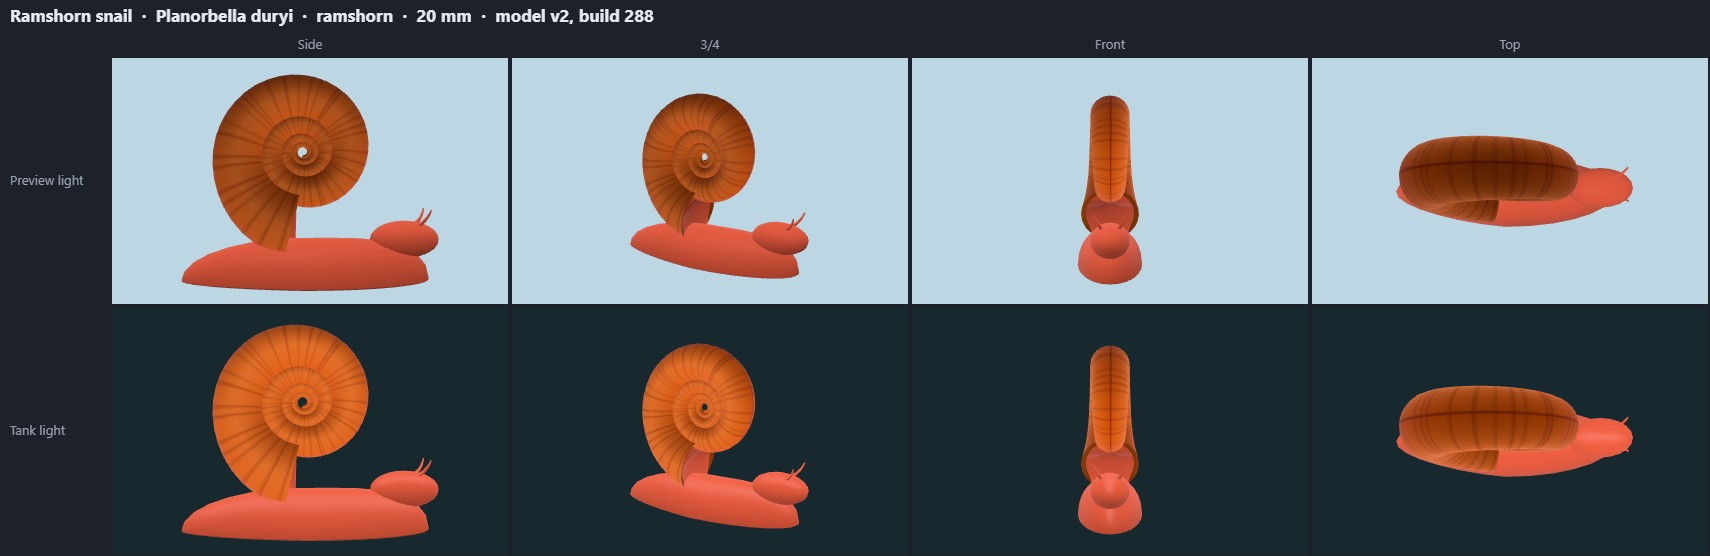
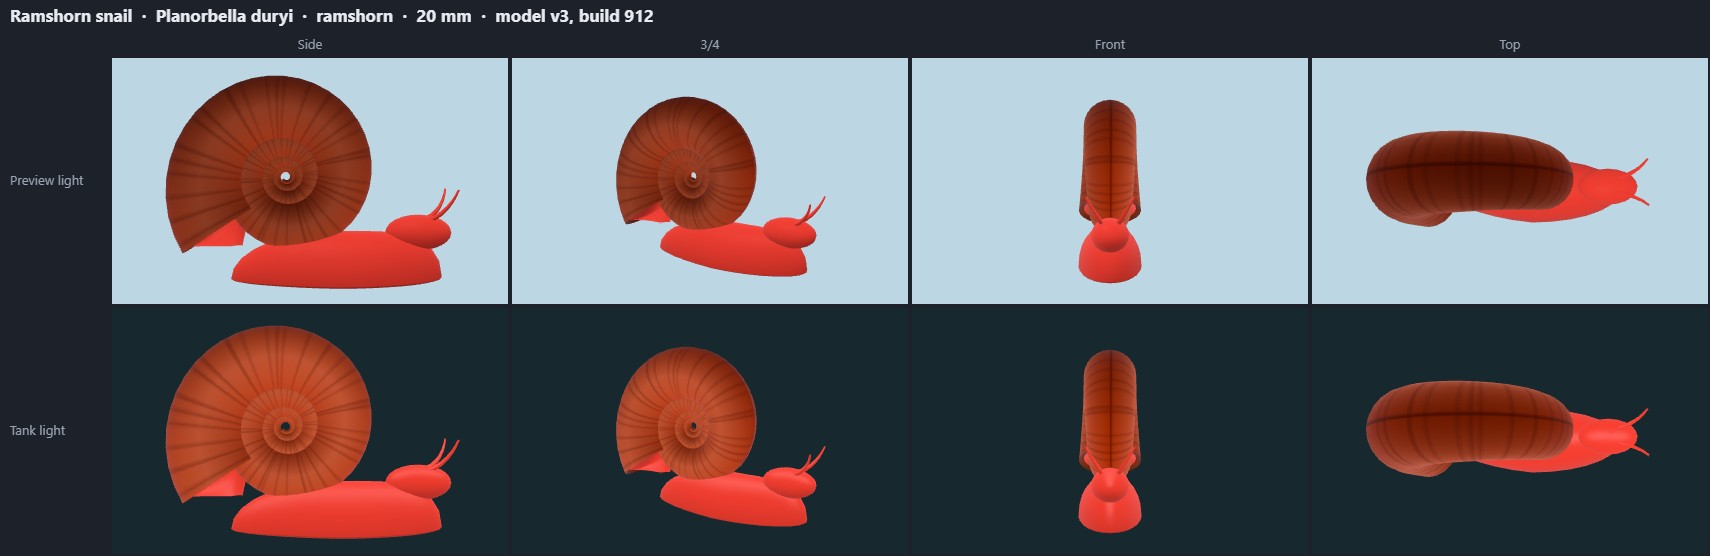
Ramshorn snail: round slow-widening whorls on a short plump foot, darker shell over a red body (was a horn on a plank)

diff --git a/public/model-sheets/index.html b/public/model-sheets/index.html
@@ -10,7 +10,7 @@ figure { margin: 8px 0 14px; padding: 8px; background: var(--panel); border-radi
 img { display: block; max-width: 100%; height: auto }
 </style></head><body>
 <h1>Model sheets</h1>
-<p>Pre-rendered review images of every TankLook animal model (no WebGL needed): 129 models, 84 species, written at build 793.
+<p>Pre-rendered review images of every TankLook animal model (no WebGL needed): 129 models, 84 species, written at build 912.
 Each sheet shows the Side, 3/4, Front, Top views; top row in the plain preview light, bottom row at true size in the default tank's LED light and water.
 Click a sheet for the full-size image (1710 × 556 px). Interactive version: <a href="../review.html">review.html</a>.</p>
 <h2>Freshwater fish</h2>
@@ -87,7 +87,7 @@ Click a sheet for the full-size image (1710 × 556 px). Interactive version: <a 
 <figure id="amano"><figcaption><b>Amano shrimp</b> · <i>Caridina multidentata</i> · amano · 45 mm · model v4 (build 448, 2026-10-15)</figcaption><a href="amano.jpg"><img src="amano.jpg" width="1710" height="556" loading="lazy" alt="Amano shrimp (Caridina multidentata), model v4: Side, 3/4, Front, Top views, preview light (top row) and tank light (bottom row)"></a></figure>
 <figure id="nerite"><figcaption><b>Nerite snail (zebra)</b> · <i>Neritina natalensis</i> · nerite · 25 mm · model v3 (build 317, 2026-10-14)</figcaption><a href="nerite.jpg"><img src="nerite.jpg" width="1710" height="556" loading="lazy" alt="Nerite snail (zebra) (Neritina natalensis), model v3: Side, 3/4, Front, Top views, preview light (top row) and tank light (bottom row)"></a></figure>
 <figure id="mystery"><figcaption><b>Mystery snail</b> · <i>Pomacea diffusa</i> · mystery · 55 mm · model v2 (build 288, 2026-10-14)</figcaption><a href="mystery.jpg"><img src="mystery.jpg" width="1710" height="556" loading="lazy" alt="Mystery snail (Pomacea diffusa), model v2: Side, 3/4, Front, Top views, preview light (top row) and tank light (bottom row)"></a></figure>
-<figure id="ramshorn"><figcaption><b>Ramshorn snail</b> · <i>Planorbella duryi</i> · ramshorn · 20 mm · model v2 (build 288, 2026-10-14)</figcaption><a href="ramshorn.jpg"><img src="ramshorn.jpg" width="1710" height="556" loading="lazy" alt="Ramshorn snail (Planorbella duryi), model v2: Side, 3/4, Front, Top views, preview light (top row) and tank light (bottom row)"></a></figure>
+<figure id="ramshorn"><figcaption><b>Ramshorn snail</b> · <i>Planorbella duryi</i> · ramshorn · 20 mm · model v3 (build 912, 2026-10-21)</figcaption><a href="ramshorn.jpg"><img src="ramshorn.jpg" width="1710" height="556" loading="lazy" alt="Ramshorn snail (Planorbella duryi), model v3: Side, 3/4, Front, Top views, preview light (top row) and tank light (bottom row)"></a></figure>
 <figure id="trumpet"><figcaption><b>Malaysian trumpet snail</b> · <i>Melanoides tuberculata</i> · trumpet · 25 mm · model v2 (build 288, 2026-10-14)</figcaption><a href="trumpet.jpg"><img src="trumpet.jpg" width="1710" height="556" loading="lazy" alt="Malaysian trumpet snail (Melanoides tuberculata), model v2: Side, 3/4, Front, Top views, preview light (top row) and tank light (bottom row)"></a></figure>
 <h2>Saltwater fish</h2>
 <figure id="ocellaris"><figcaption><b>Ocellaris clownfish</b> · <i>Amphiprion ocellaris</i> · ocellaris · 80 mm · model v2 (build 365, 2026-10-14)</figcaption><a href="ocellaris.jpg"><img src="ocellaris.jpg" width="1710" height="556" loading="lazy" alt="Ocellaris clownfish (Amphiprion ocellaris), model v2: Side, 3/4, Front, Top views, preview light (top row) and tank light (bottom row)"></a></figure>

diff --git a/src/art/snails.ts b/src/art/snails.ts
@@ -12,7 +12,8 @@ export interface SnailSpec { kind: Kind; shell: [string, string, string]; foot: 
 export const SNAILS: Record<string, SnailSpec> = {
   nerite: { kind: 'nerite', shell: ['#4a4a22', '#8a8a3a', '#a8a050'], foot: ['#8a8070', '#c8bfae'], mark: '#1e1c14' },
   mystery: { kind: 'mystery', shell: ['#8a6420', '#c89a3a', '#e0bc68'], foot: ['#5a5650', '#9a948a'], mark: '#6a4818' },
-  ramshorn: { kind: 'ramshorn', shell: ['#6a2a20', '#9a4a32', '#b86a4a'], foot: ['#9a3a32', '#c86a5a'], mark: '#4a1a14' },
+  // red ramshorn: a translucent red-brown shell over a brighter red body
+  ramshorn: { kind: 'ramshorn', shell: ['#4a1a14', '#7a2e22', '#985040'], foot: ['#b02e2a', '#e0605a'], mark: '#3a120e' },
   trumpet: { kind: 'trumpet', shell: ['#5a4a38', '#8a7a62', '#b0a080'], foot: ['#6a6258', '#a09888'], mark: '#4a2a1a' },
   // Mexican turbo (marine): a turban shell, olive-brown mottled with paler spiral ridges
   turbo: { kind: 'turbo', shell: ['#4a4a32', '#76704c', '#9a9068'], foot: ['#5a5048', '#8a8070'], mark: '#c8c0a0' },
@@ -47,7 +48,9 @@ export interface Shell3D { turns: number; grow: number; drop: number; ap: [numbe
 export const SHELL3D: Record<Kind, Shell3D> = {
   nerite: { turns: 1.8, grow: 10, drop: 0.2, ap: [0.95, 0.95], incl: 15, open: [0.05, -1, 0], lip: 0.03, axis: [-0.3, 0.35, 0.9], size: 0.8, tall: 0.42, at: 0.46, foot: 0.2, footEnd: 0.95, footW: 0.76, footH: 0.13, head: 0.085, ph: 48, seam: false, fillCut: true, tent: 0.085, mark: 'axial' },
   mystery: { turns: 4, grow: 3, drop: 1.5, ap: [0.7, 1.05], incl: 30, axis: [-0.55, 0.8, 0.25], size: 0.66, tall: 0.78, at: 0.42, foot: 0.02, footW: 0.3, footH: 0.15, tent: 0.1, mark: 'spiral' },
-  ramshorn: { turns: 3.5, grow: 2.3, drop: 0, ap: [0.55, 0.58], incl: 0, open: [1, -0.25, 0], axis: [0, 0, -1], size: 0.7, tall: 0.7, at: 0.44, foot: 0.02, footW: 0.2, footH: 0.14, tent: 0.06, mark: 'growth' },
+  // a planorbid: a flat disc of slowly widening round whorls carried upright over the back of a short, plump foot (the
+  // shell overhangs behind it), aperture down and forward onto the foot, long thin tentacles
+  ramshorn: { turns: 4, grow: 1.9, drop: 0, ap: [0.52, 0.52], incl: 0, open: [0.55, -0.85, 0], lip: 0.04, axis: [0, 0, -1], size: 0.64, tall: 0.7, at: 0.36, foot: 0.24, footEnd: 0.9, footW: 0.36, footH: 0.2, tent: 0.09, mark: 'growth' },
   trumpet: { turns: 9, grow: 1.32, drop: 7, ap: [0.45, 1.5], incl: 65, open: [0.75, -0.65, 0], axis: [-0.95, 0.2, 0], size: 0.72, tall: 0.3, at: 0.5, foot: 0.45, footEnd: 0.93, footW: 0.2, footH: 0.1, tent: 0.07, mark: 'spots' },
   turbo: { turns: 5, grow: 2.2, drop: 2.2, ap: [0.66, 1.1], incl: 25, axis: [-0.25, 0.95, 0.15], size: 0.64, tall: 0.8, at: 0.42, foot: 0.02, footW: 0.3, footH: 0.15, tent: 0.08, mark: 'spiral' },
 };
